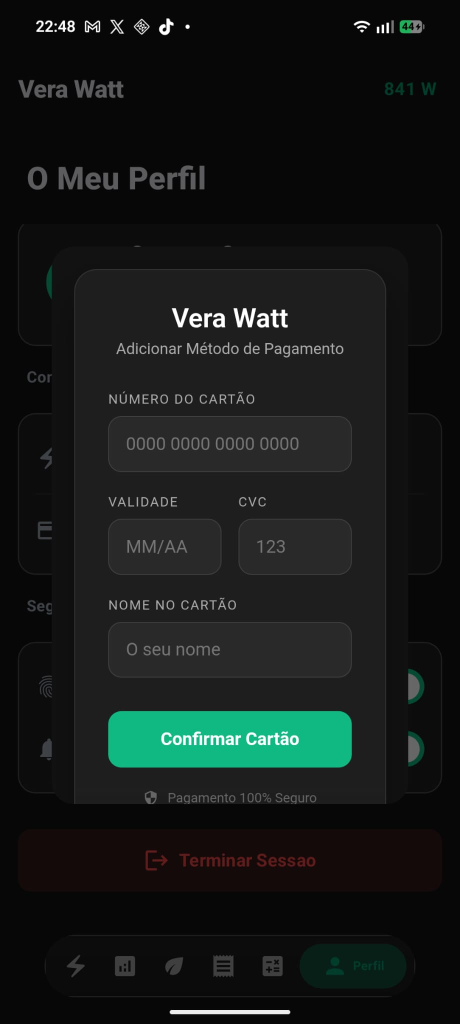
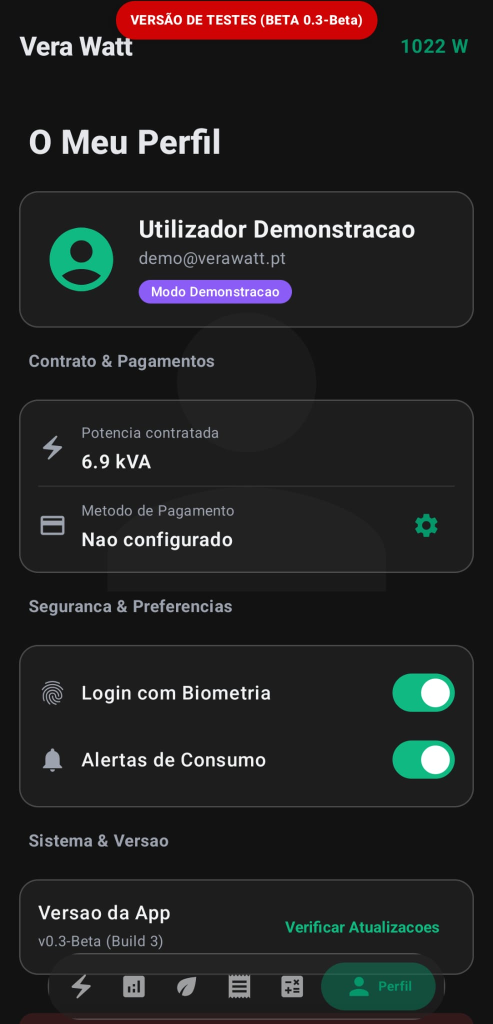
feat: atualizar capturas de ecra oficiais da Vera Watt v0.3-Beta

diff --git a/verawatt.html b/verawatt.html
@@ -85,16 +85,19 @@
             <h2 class="section-title">Capturas de Ecrã</h2>
             <div class="screenshots-carousel">
                 <div class="screenshot-item">
-                    <img src="assets/img/verawatt_screen1.jpg" alt="Vera Watt Atualizações e Ecrã Principal">
+                    <img src="assets/img/verawatt_screen1.png" alt="Telemetria em Tempo Real e Indicador de Potência Ativa">
                 </div>
                 <div class="screenshot-item">
-                    <img src="assets/img/verawatt_screen2.png" alt="Vera Watt Telemetria em Tempo Real">
+                    <img src="assets/img/verawatt_screen2.png" alt="Pegada Ecológica e Guardião Solar Nível 2">
                 </div>
                 <div class="screenshot-item">
-                    <img src="assets/img/verawatt_screen3.png" alt="Vera Watt Faturas e Pagamentos">
+                    <img src="assets/img/verawatt_screen3.png" alt="Gestão de Faturas Digitais e Histórico de Pagamentos">
                 </div>
                 <div class="screenshot-item">
-                    <img src="assets/img/verawatt_screen4.png" alt="Vera Watt Simulador Solar">
+                    <img src="assets/img/verawatt_screen4.png" alt="Perfil do Utilizador e Verificador de Versão v0.3-Beta">
+                </div>
+                <div class="screenshot-item">
+                    <img src="assets/img/verawatt_screen5.png" alt="Acesso Digital e Autenticação de Cliente">
                 </div>
             </div>
 

diff --git a/assets/css/style.css b/assets/css/style.css
@@ -658,8 +658,7 @@ footer a:hover {
 
 .screenshot-item img {
     width: 100%;
-    height: 480px;
-    object-fit: cover;
+    height: auto;
     display: block;
 }
 
@@ -668,7 +667,8 @@ footer a:hover {
 }
 
 .screenshot-item.landscape img {
-    height: 280px;
+    width: 100%;
+    height: auto;
 }
 
 /* Feature Highlights & Specs */
